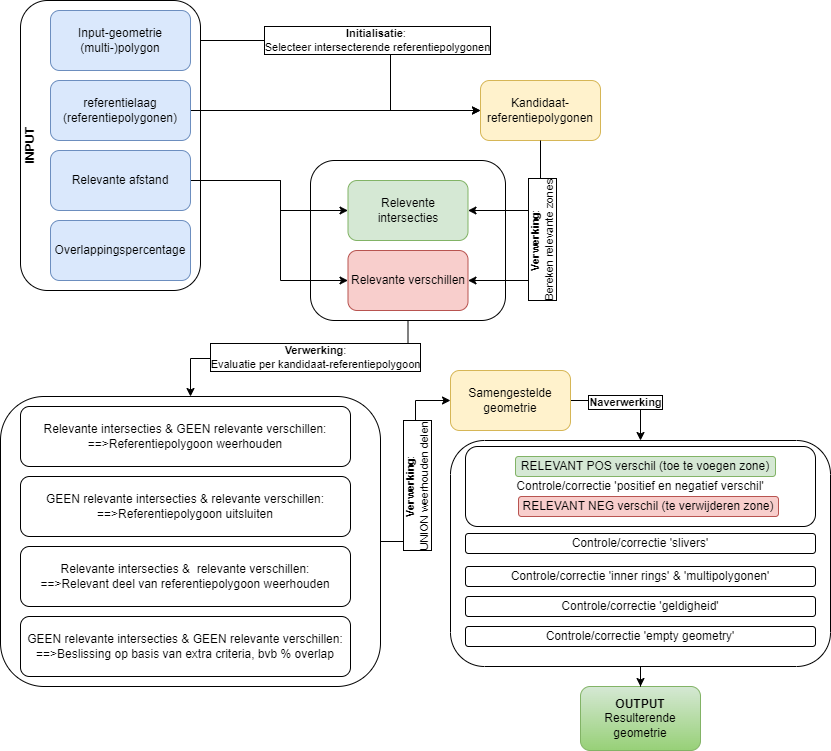
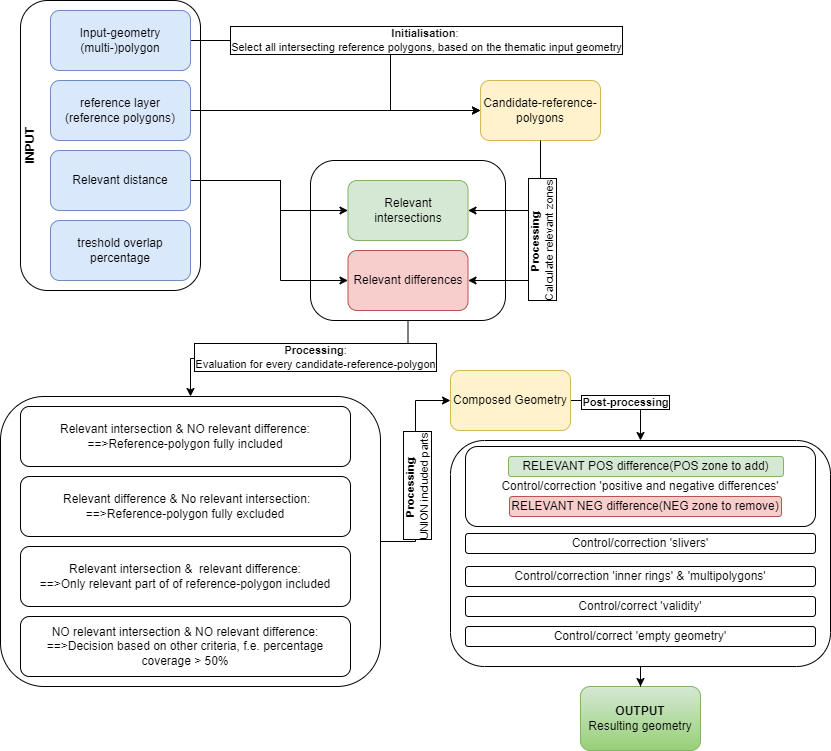
readme cleanup
figures translated to english

diff --git a/tests/test_utils.py b/tests/test_utils.py
@@ -3,11 +3,11 @@ import shapely
 import os
 
 from shapely import is_empty
-from shapely.geometry import Polygon, MultiPolygon
+from shapely.geometry import Polygon
 from brdr.utils import (
     export_geojson, multipolygons_to_singles, polygonize_reference_data,
     get_oe_dict_by_ids, get_oe_geojson_by_bbox, get_breakpoints_zerostreak,
-    numerical_derivative, _filter_dict_by_key, filter_resulting_series_by_key,
+    _filter_dict_by_key, filter_resulting_series_by_key,
     diffs_from_dict_series, get_collection
 )
 

diff --git a/README.md b/README.md
@@ -129,6 +129,9 @@ The algorithm for alignment is based on 2 main principles:
 * Principle of intentionality: Thematic boundaries can consciously or unconsciously deviate from the reference borders. The algorithm should keep notice of that.
 * Selective spatial conservation of shape: The resulting geometry should re-use the shape of the reference borders where aligned is of relevance.
 
+The figure below shows a schematic overview of the algorithm:
+![](docs/figures/algorithm.png)
+
 The algorithm can be split into 3 main phases:
 * Initialisation: 
   * Deciding which reference polygons are candidate-polygons to re-use its shape. 
@@ -143,19 +146,19 @@ The algorithm can be split into 3 main phases:
 ![](docs/figures/evaluate_candidates.png)
   * Union all kept parts to recompose a resulting geometry
 * Post-processing: 
-  * Technical validation on inner holes and multipolygons
+  * Validation/correction of differences between the original input geometry and the composed intermediate resulting geometry after processing the algorithm
+  * Technical validation of inner holes and multipolygons that are created by processing the algorithm
   * Clean-up slivers
   * Make the resulting geometry valid
 
-The figure below shows a schematic overview of the algorithm (in dutch):
-![](docs/figures/algorithm.png)
+RESULT: 
 
-A more in-depth description of the algorithm can be found  in the following article (in dutch):
+A new resulting output geometry, aligned to the reference-polygons
 
-ADD LINK to report
 
 ## Motivation & citation
-
+A more in-depth description of the algorithm can be found  in the following article (in dutch):
+ADD LINK to report
 ## Comments and contributions
 
 - Please report any issues or bugs here:
